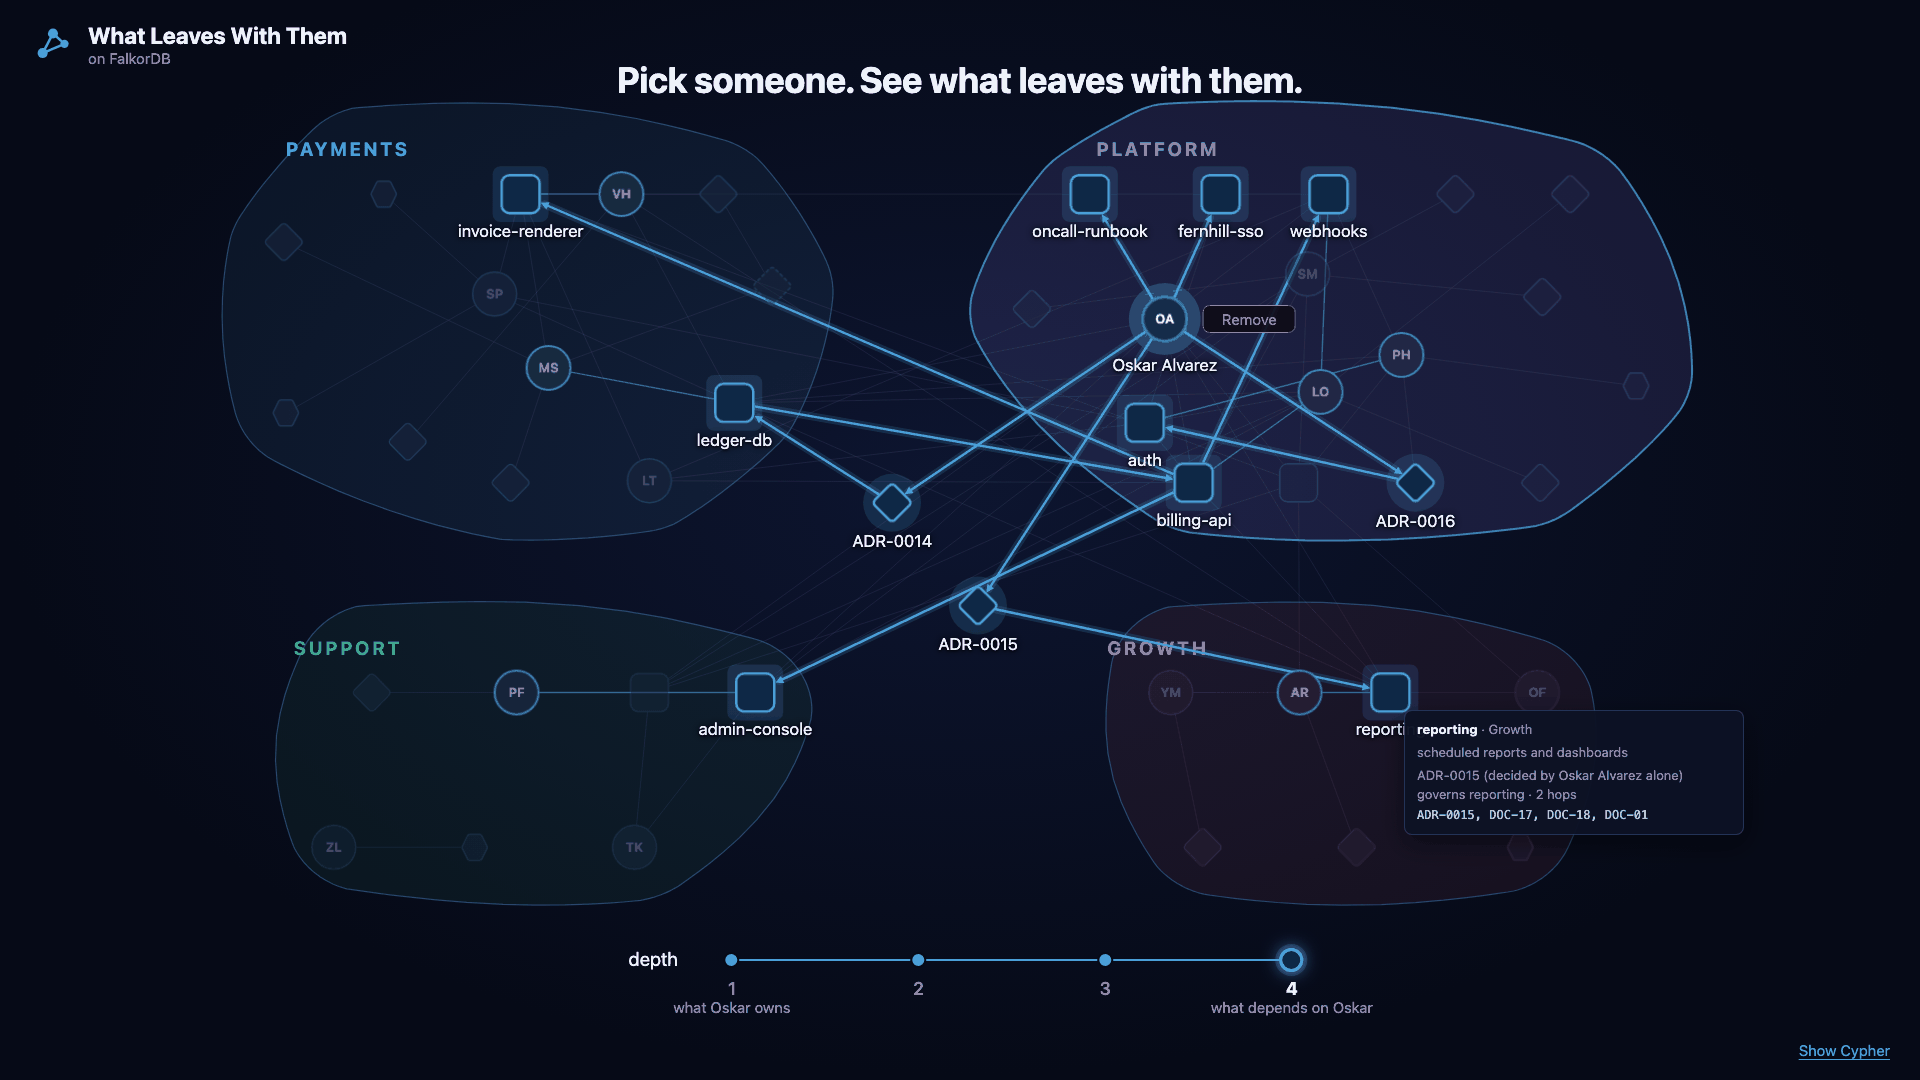
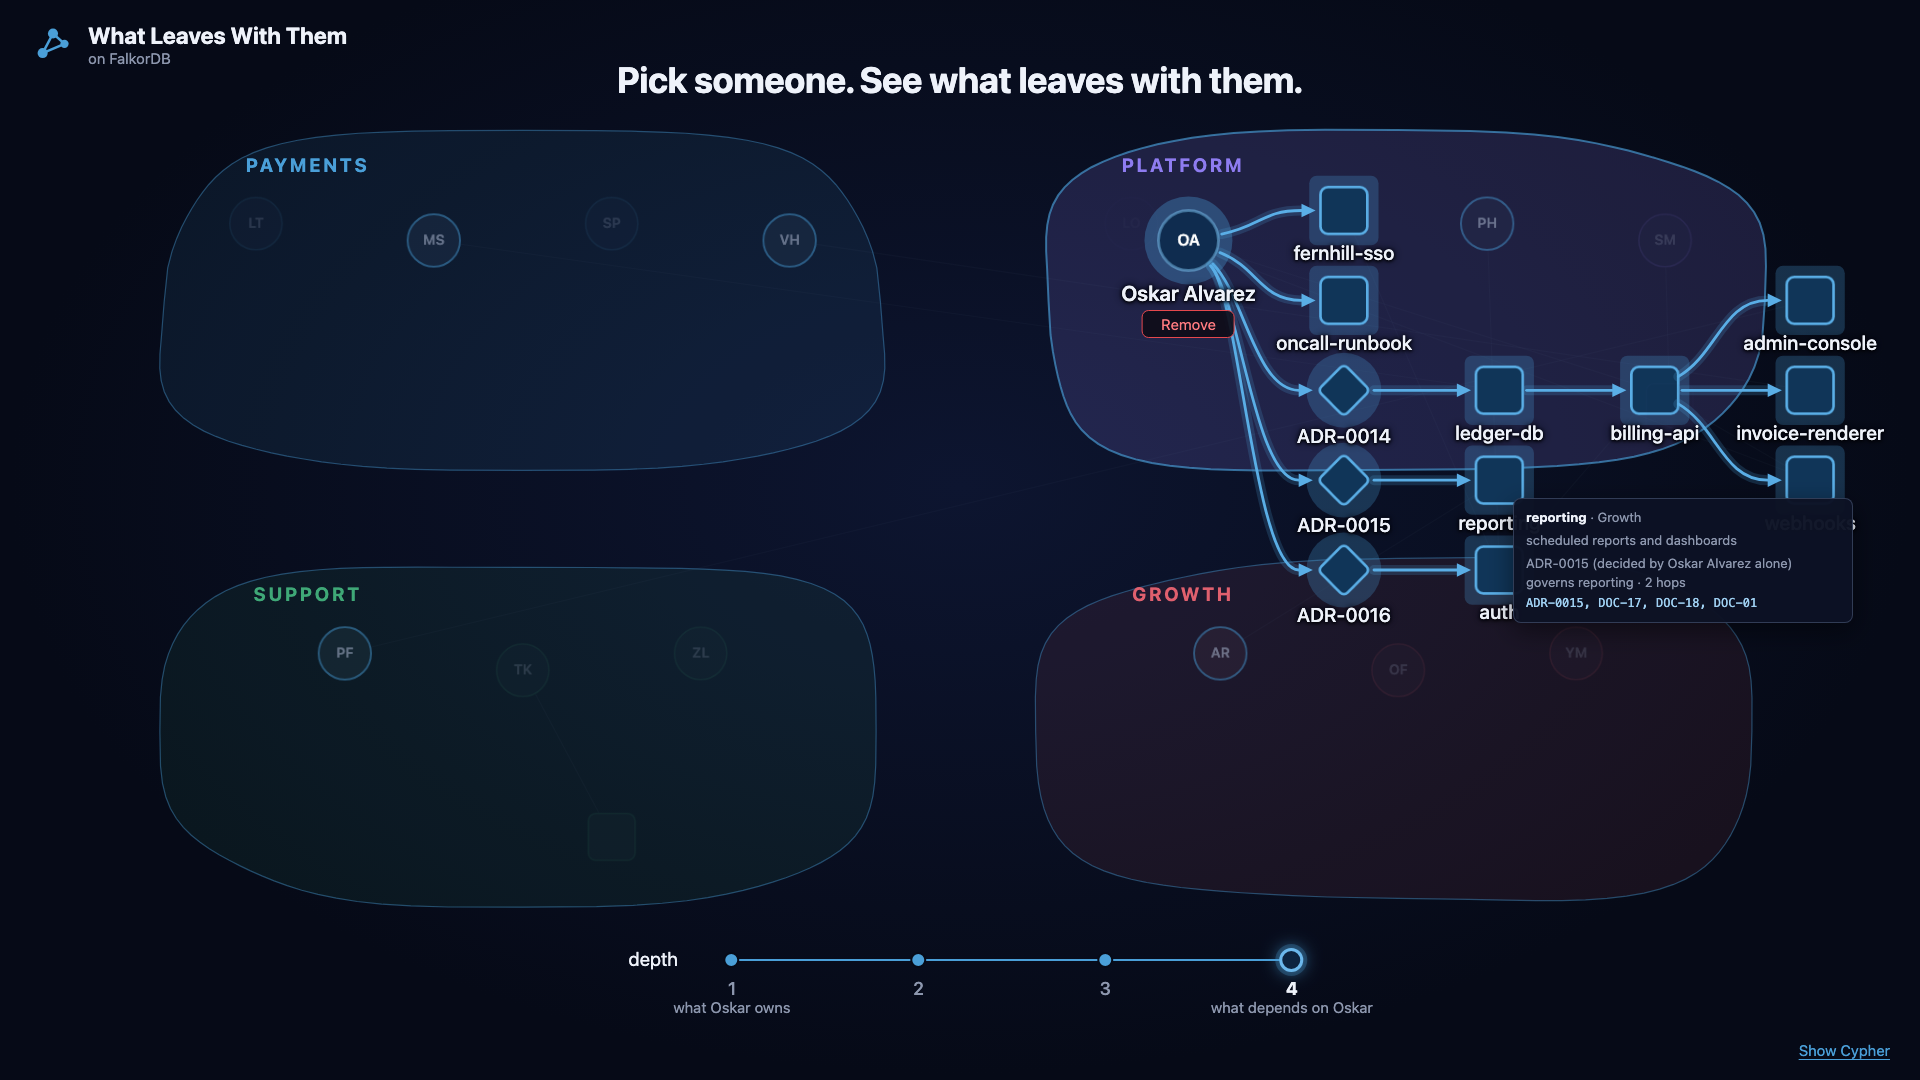
Panel: no name or tooltip left under a resting pointer when the view moves; screenshots of all 18 states retaken

diff --git a/web/app.js b/web/app.js
@@ -423,6 +423,8 @@
         y0: Math.min(...pts.map((p) => p.y)) - m, y1: Math.max(...pts.map((p) => p.y)) + m - 10 };
       full = extent;
     }
+    hovered = null;  // the camera moves the nodes away from a resting pointer: no name or tooltip left behind
+    hideTip();
     const r = freeRect();
     const whole = full ? Math.min(r.w / (full.x1 - full.x0), r.h / (full.y1 - full.y0)) : Infinity;
     const zoom = Math.min(r.w / (b.x1 - b.x0), r.h / (b.y1 - b.y0), whole * 1.6);
